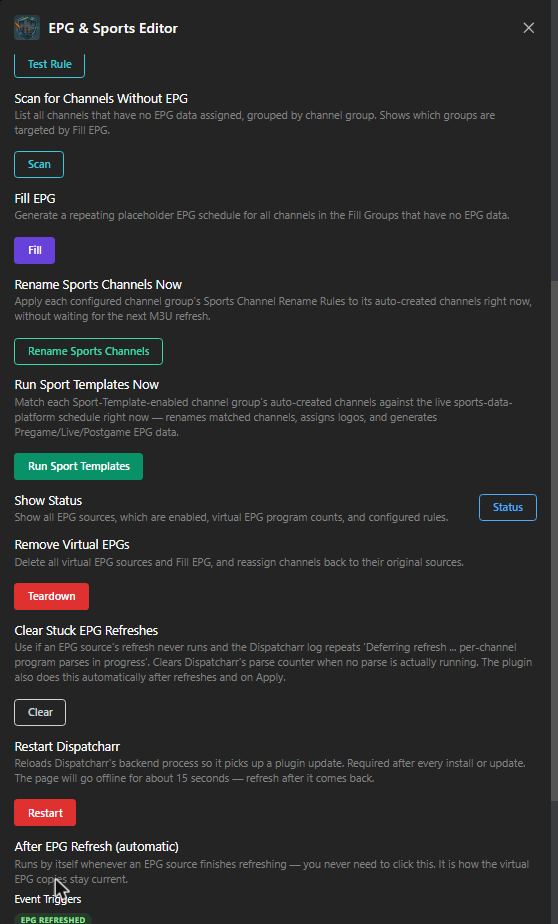
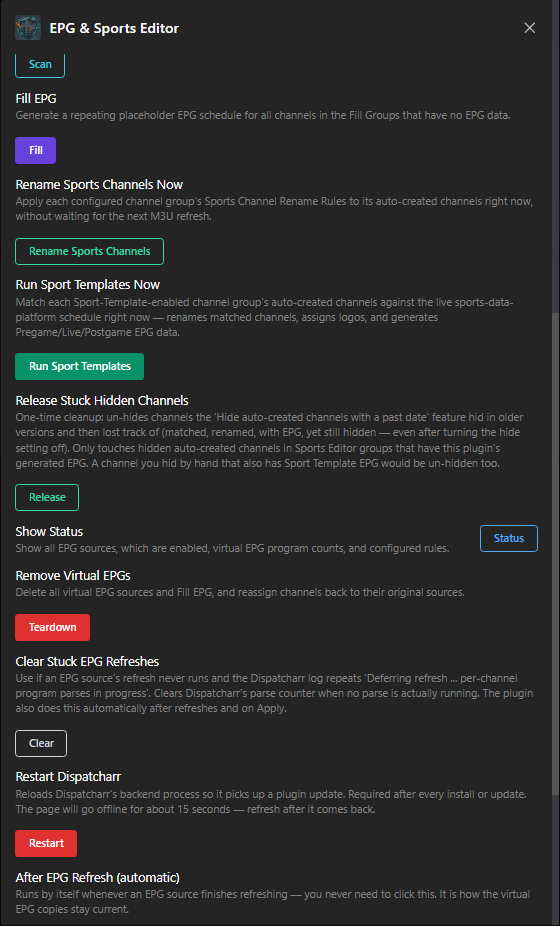
docs: v0.5.15 - hide tracking fix, Release Stuck Hidden Channels, volleyball; new screenshots

Changed region(s): [[0.0, 0.0, 0.9444, 1.0], [0.853, 0.0, 1.0, 1.0], [0.5484, 0.9091, 0.9444, 0.9697]]

diff --git a/README.md b/README.md
@@ -205,12 +205,13 @@ Want real channel names, logos, and a Pregame/Live/Postgame EPG instead of just 
 | **Fill** | Generate repeating placeholder EPG schedules for channels in your Fill Groups with no EPG data. |
 | **Rename Sports Channels Now** | Apply each enabled channel group's Sports Channel Rename Rules to its auto-created channels right now, without waiting for the next M3U refresh. |
 | **Run Sport Templates Now** | Match each Sport-Template-enabled group's auto-created channels against the live schedule right now — renames matches, assigns logos, and generates Pregame/Live/Postgame EPG data. |
+| **Release Stuck Hidden Channels** | One-time cleanup (v0.5.15+) for channels the past-date hide feature hid in an older version and then lost track of — matched, renamed, with EPG, yet still hidden, even with the hide setting off. Un-hides hidden auto-created channels in your Sports Editor groups that carry this plugin's generated EPG. Not needed after that: from v0.5.15 the plugin remembers what it hid. See the [FAQ](#faq). |
 | **Show Status** | Shows which sources are enabled, program counts, Fill EPG status, and configured rules. |
 | **Teardown** | Removes all virtual EPG sources (including Fill EPG) and reassigns channels back to their originals. |
 | **Clear Stuck EPG Refreshes** | Use when an EPG source never refreshes and the Dispatcharr log repeats `Deferring refresh … per-channel program parses in progress`. Clears Dispatcharr's stuck parse counter, but only when no parse is actually running. Also done automatically after every refresh and Apply Now (v0.5.14+). See the [FAQ](#faq). |
 | **Restart Dispatcharr** | Reloads Dispatcharr's backend process so it picks up a plugin update — run this after every EPG & Sports Editor install/update. Not a full container restart; the page goes offline for about 15 seconds. |
 
-![Lower half of the Actions tab, including Clear Stuck EPG Refreshes](docs/screenshots/02b_actions_maintenance.png)
+![Lower half of the Actions tab, including Release Stuck Hidden Channels and Clear Stuck EPG Refreshes](docs/screenshots/02b_actions_maintenance.png)
 
 ---
 
@@ -349,7 +350,7 @@ One section appears per Dispatcharr channel group. Per-group settings:
 | **Enable Sports Editor for this group** | Toggle the Sports Editor on/off for this channel group |
 | **Sport Template** | Pick a sport (93 supported — see the [full league list](docs/SPORT_TEMPLATES.md#full-league-list)), **Any Sport** for [Network Channels](#network-channels) (channels named after a broadcast network instead of two teams), or none, to match this group's auto-created channels against live game data instead of/alongside rename rules. See the **[Sport Templates Guide](docs/SPORT_TEMPLATES.md)**. |
 | **Sports Channel Rename Rules** | Rules applied to auto-created channel names in this group. Same format as EPG Sources rules above, but a separate rule set per group. Used as a fallback when no Sport Template match is found (or always, if no Sport Template is selected). |
-| **Hide auto-created channels with a past date in their name** | Off by default. For a channel that never matches a real game but whose raw name shows an already-past date/time, hide it (Dispatcharr's `hidden_from_output`, requires Dispatcharr v0.26.0+) instead of leaving it visible. Only ever un-hides a channel this feature itself hid; turning the setting off un-hides everything it hid (v0.5.09+). See the **[Sport Templates Guide](docs/SPORT_TEMPLATES.md#hiding-auto-created-channels-with-a-past-date-in-their-name-v0502)**. |
+| **Hide auto-created channels with a past date in their name** | Off by default. For a channel that never matches a real game but whose raw name shows an already-past date/time, hide it (Dispatcharr's `hidden_from_output`, requires Dispatcharr v0.26.0+) instead of leaving it visible. Only ever un-hides a channel this feature itself hid; turning the setting off un-hides everything it hid (v0.5.09+). Which channels it hid is stored in the database, so a Dispatcharr restart or update no longer makes it forget them (v0.5.15+). See the **[Sport Templates Guide](docs/SPORT_TEMPLATES.md#hiding-auto-created-channels-with-a-past-date-in-their-name-v0502)**. |
 | **Hide Past-Date Channels After (hours past the start time)** | Global, default 4 hours (v0.5.07+). How long after the game's **start time** (as written in the channel's raw name) a channel that no longer matches a game counts as "past" and gets hidden. Counted from the start, not the end — and a channel still inside its match window (game length + Postgame Window) is never hidden, so with a long Postgame Window the channel hides when that window ends instead. See the **[Sport Templates Guide](docs/SPORT_TEMPLATES.md#hiding-auto-created-channels-with-a-past-date-in-their-name-v0502)**. |
 
 ### Sport Templates
@@ -494,6 +495,12 @@ Yes, as of v0.5.02 — turn on **Hide auto-created channels with a past date in 
 
 **I'm far ahead of US time zones (e.g. New Zealand) — will "Hide auto-created channels with a past date" hide a channel too early for me, since my calendar date is already a day ahead?**
 No. The comparison is done entirely in real UTC time, using the time zone written in the channel's own name (`ET`/`CT`/`MT`/`PT`, plus `EDT`/`EST`/`CDT`/`CST`/`MDT`/`MST`/`PDT`/`PST`, `UTC`/`GMT`, `BST`/`UK`, `NZDT`/`NZST`, `AEDT`/`AEST` as of v0.5.07; ET is assumed when none is written) — not your local clock, and not the plugin's **Local Display Timezone** setting. `SEP 27 8:50 PM ET` becomes one specific real-world instant, the same instant everywhere on Earth, and hiding only happens once that much real time has actually elapsed (plus a small grace buffer) — never based on "has the calendar date passed" for whoever's looking at it. See the **[Sport Templates Guide](docs/SPORT_TEMPLATES.md#hiding-auto-created-channels-with-a-past-date-in-their-name-v0502)** for the full explanation.
+
+**Channels with real games (renamed, with EPG and a logo) are still hidden, or hidden channels never come back.**
+Fixed in v0.5.15. The plugin only un-hides channels it knows it hid, and it used to keep that list in Dispatcharr's cache (Redis), which is emptied whenever Dispatcharr restarts or updates. Channels hidden before that restart stayed hidden for good — even after they matched a game, and even after you turned the hide setting off. The list now lives in the database. After updating, restart Dispatcharr and press **Release Stuck Hidden Channels** once on the Actions tab to un-hide channels already stuck; then turn the hide setting back on if you want it. If a channel still hides when it shouldn't, send the `hide-state` log lines (see the **[Sport Templates Guide](docs/SPORT_TEMPLATES.md#hiding-auto-created-channels-with-a-past-date-in-their-name-v0502)**).
+
+**NCAA Women's Volleyball channels aren't renamed, have no logo, or show the wrong team logos.**
+Fixed in v0.5.15. The schedule feed publishes college volleyball under two names: `ncaa-volleyball` is the full scoreboard, and `ncaa-womens-volleyball` is only a thin ESPN+ list with no team abbreviations. Choosing the Women's template searched only the thin list, so most games never matched and the rest got logos guessed from short school names (Middle Tennessee came out as Tennessee). Either volleyball template now searches both and prefers the full row. Also fixed: a date written after the home team (`Siena @ Iona on Saturday Oct 31 at 10:00 AM NZDT`) is now ignored, where it used to stop short school names such as Iona or NJIT from matching. Restart Dispatcharr after updating, then run **Run Sport Templates Now**.
 
 **Channels are hidden but "Hide auto-created channels with a past date" is off for that group.**
 That feature can't hide anything while its toggle is off, so something else did (a manual hide, another plugin, or Dispatcharr). As of v0.5.10 each Sports Editor pass logs a per-group `hide-state` line (hidden before/after, newly hidden/un-hidden) and lists any channel hidden during the pass as **by past-date hide** or **NOT by plugin past-date hide**; see the **[Sport Templates Guide](docs/SPORT_TEMPLATES.md#hiding-auto-created-channels-with-a-past-date-in-their-name-v0502)**.

diff --git a/docs/SPORT_TEMPLATES.md b/docs/SPORT_TEMPLATES.md
@@ -109,8 +109,10 @@ Some providers reuse a fixed numbered channel slot for each day's game, and it b
 - **How long after the game?** "Past" means the start time written in the channel's name is more than the **Hide Past-Date Channels After** setting ago (Settings, near Postgame Window; default **4 hours**, v0.5.07+). It counts from the game's **start**, not its end. A channel that still matches a game is never hidden, so if your game length + Postgame Window is longer than this number, the channel hides when that window ends. Raise it if your provider writes times in a timezone the plugin can't read.
 - Hiding uses Dispatcharr's own **`hidden_from_output`** channel field (requires **Dispatcharr v0.26.0+**) — the channel stays in Dispatcharr, keeps its identity, and Auto Channel Sync keeps updating it normally; it's just excluded from HDHR/M3U/EPG/XC output until un-hidden.
 - **Automatically un-hidden** the moment either (a) the channel gets a real Sport Template match again (a live/upcoming game — always un-hidden, since that's now clearly current), or (b) its raw name no longer parses as a past date on a later run (the provider refreshed that slot) even without a fresh match, or (c) you turn this setting **off** for the group — every channel this feature hid is un-hidden on the next M3U refresh or **Sports Editor EPG** run (previously those channels stayed hidden after the toggle was switched off).
-- **Never touches a channel you hid manually for any other reason.** This feature only ever un-hides a channel it hid itself — it tracks which channels those are internally, and a channel that's already hidden for some other reason is left alone entirely, in both directions.
+- **Never touches a channel you hid manually for any other reason.** This feature only ever un-hides a channel it hid itself — it keeps a list of which channels those are, and a channel that's already hidden for some other reason is left alone entirely, in both directions. As of v0.5.15 that list is stored in the database (on the Sports Editor EPG source), so it survives a Dispatcharr restart or update; before that it lived in Dispatcharr's cache, was wiped by every restart, and channels hidden earlier then stayed hidden for good.
 - Off by default, per group.
+
+**Channels stuck hidden after an update or restart? (v0.5.15+)** In v0.5.14 and earlier, a Dispatcharr restart or update made the plugin forget which channels it had hidden. Those channels then never came back — not when they matched a game, were renamed and given EPG and a logo, and not when you switched the setting off — which looks like channels being hidden for no reason. Update, restart Dispatcharr, and press **Release Stuck Hidden Channels** on the Actions tab once. It un-hides every hidden auto-created channel in your Sports Editor groups that has this plugin's generated EPG. One caveat: a channel you hid by hand that also has that EPG is un-hidden too, so re-hide it if that happens. After that you don't need the button again — the plugin now remembers what it hid. Turn the hide setting back on afterwards if you want it.
 
 **Channels hidden and you didn't turn this on? (v0.5.10+)** This feature can only hide a channel in a group where its toggle is on, so if a group's toggle is off and channels are still hidden, something else hid them (a manual hide, another plugin, or Dispatcharr itself). To tell, check the Dispatcharr log (filter for `EPG & Sports Editor`). Every Sports Editor pass — the automatic one after an M3U refresh and **Run Sport Templates Now** — logs one line per group, for example:
 
@@ -202,7 +204,9 @@ Every `league_slug` sports-data-platform exposes with real event history, cross-
 
 **Softball:** AUSL, HSSOFT, JLSOFT, Little League Softball, NCAA Softball, SLSOFT — all matchup (zero live events when added — off-season for the college/adult leagues, added on the strength of softball's unambiguous team-vs-team structure, not verified against real data)
 
-**Volleyball:** NCAA Volleyball, NCAA Women's Volleyball, Big Ten Volleyball (W) — all matchup
+**Volleyball:** NCAA Volleyball, NCAA Women's Volleyball, Big Ten Volleyball (W) — all matchup *(NCAA Volleyball and NCAA Women's Volleyball are the same pair of feeds as college football: `ncaa-volleyball` is the full scoreboard with abbreviations and logos, `ncaa-womens-volleyball` is only a thin ESPN+ list, so **either template searches both** and prefers the full row — v0.5.15+)*
+
+![Six NCAA Women's Volleyball channels after a Run Sport Templates Now: full team names, the plugin's generated EPG, and matchup logos](screenshots/13_ncaa_womens_volleyball.png)
 
 **Ice hockey:** NHL — matchup
 
